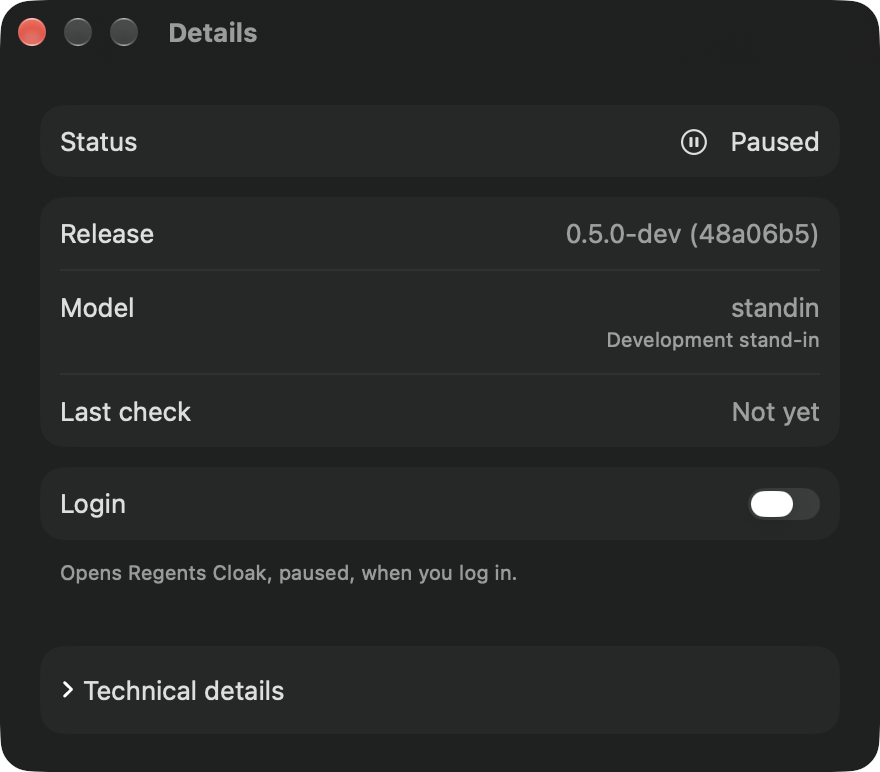
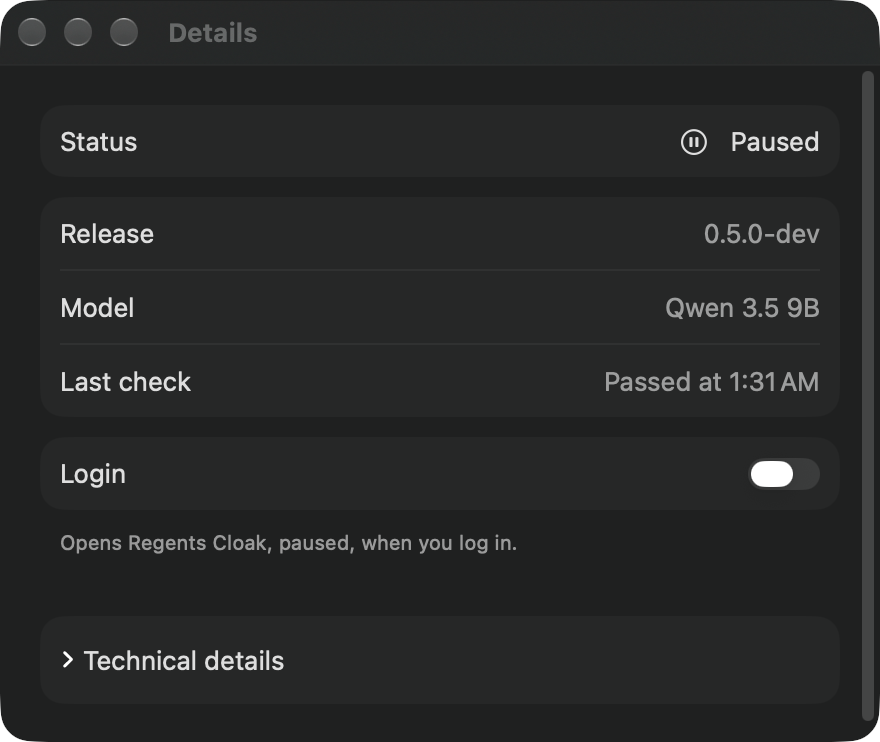
Stage 5: live run with the small lead; Details shots refreshed
From Paused, Start reached Running in 8.5 s and 8.3 s (10.1 s opening
the app); three cloak verify runs passed, each one real rewrite; whole
product peak 6.72 GiB while starting, 5.58 GiB while Running. An extra
file in the model folder gave model_changed; Quit from Running stopped
the app, tor and the worker within 4 s. The Details window in each state,
light and dark, captured by window id through accessibility actions and
the cloak command only. The plan's Stage 2 bullet now counts the llama.cpp
worker's 35 checks.

diff --git a/docs/plan.md b/docs/plan.md
@@ -47,18 +47,22 @@ worker uses `macos-patterns`, `macos-build` and `write-swift`; stage 5 adds
 
 ## Stage 2 so far
 
-- The native worker (`worker/`) loads a model only when every file matches
-  the pins built into it, rewrites one request at a time, stops on a cancel
-  (also while it reads a long prompt), and stops on any protocol fault. When
-  the host shuts down mid-rewrite, the worker stops that rewrite, which
-  fails, and exits cleanly; a protocol fault mid-rewrite stops the rewrite
-  the same way before the worker exits. It runs in Apple's App Sandbox with no
-  network entitlement and reads files only in
-  `~/Library/Application Support/Regents Cloak/models/`. 28 checks in
-  `tests/test_worker.py` pass, including: a program signed with the worker's
-  entitlements is refused a connection the same program makes unsandboxed,
-  the installed worker carries exactly those entitlements, and the worker
-  cannot read a folder outside the models folder.
+- The native worker (`llama-worker/`, on llama.cpp, decision 8; the first
+  worker, on MLX, was deleted on 14 November) loads a model only when every
+  file matches the pins built into it, rewrites one request at a time under
+  the reply grammar, stops on a cancel (also while it reads a long prompt),
+  and stops on any protocol fault. When the host shuts down mid-rewrite, the
+  worker stops that rewrite, which fails, and exits cleanly; a protocol
+  fault mid-rewrite stops the rewrite the same way before the worker exits.
+  It runs in Apple's App Sandbox with no network entitlement and reads files
+  only in
+  `~/Library/Application Support/Regents Cloak/models/`. 35 checks in
+  `tests/test_llama_worker.py` pass on the stand-in (14 November),
+  including: a program signed with the worker's entitlements is refused a
+  connection the same program makes unsandboxed, the installed worker
+  carries exactly those entitlements, the worker cannot read a folder
+  outside the models folder, and the daemon accepts every reply the model
+  ended.
 - The guest (`guest/`) is a Debian trixie kernel and a small initramfs from a
   pinned snapshot, with no network device. Inside it, the daemon's own
   rewrite code (`internal/rewriter`, built from the pinned module, with
@@ -95,9 +99,7 @@ worker uses `macos-patterns`, `macos-build` and `write-swift`; stage 5 adds
   code directly, as its client does before target inference (A11 stays open).
   The sandbox confines reads within the person's home folder; system-wide
   readable places such as `/private/tmp` stay readable, as App Sandbox allows.
-  The stand-in model is never evaluated: it sometimes fences
-  its reply, which the daemon refuses, and sometimes answers instead of
-  rewriting.
+  The stand-in model is never evaluated; it is there to drive the path.
 
 ### Pi in the guest (12 November 2026)
 
@@ -1285,6 +1287,27 @@ candidates, so the split has to be re-declared before any holdout opens.
   where Technical details cannot take the keyboard focus though the Login
   switch can, so Tab would likely pass it; a spoken VoiceOver run; and a
   live sleep and wake.
+- Live run with the small lead on the development Mac, 14 November (load
+  averages of 34 to 44 from other apps, on mains power): with the app
+  closed, `cloak start` opened it and reached Running in 10.1 s; from
+  Paused, Start reached Running in 8.5 s and 8.3 s, and from Needs
+  attention in 7.9 s. Each startup check's rewrite took 0.67 to 0.92 s
+  through the guest, the daemon and the worker. Three `cloak verify` runs
+  passed, each one real rewrite (0.70 to 0.74 s), in 7.6 to 8.0 s each.
+  The whole product peaked at 6.72 GiB (7,211,720,312 bytes: the worker
+  6.12 GiB, the check guest's virtual machine 0.56 GiB, the app 0.03 GiB,
+  tor 0.01 GiB) while starting, and held up to 5.58 GiB while Running once
+  the check guest had powered off. With one extra file in the model's
+  folder, Start ended in Needs attention in 2.3 to 2.7 s, "The model has
+  changed. Reinstall the model, then start again." (`model_changed`), with
+  tor stopped; with the file removed, Start reached Running. Quit from
+  Running, chosen in the menu through accessibility, ended the app, tor
+  and the worker within 4 s. The Details window in each state, light and
+  dark, is in [shots/](shots/) again, now with the small lead, taken
+  through accessibility actions on the app's own elements and the `cloak`
+  command only. Not shown here: a file changed in place at its pinned size
+  (the worker's checks show it, `tests/test_llama_worker.py`), and a 16 GB
+  Mac.
 
 ## Decisions
 

diff --git a/CHANGELOG.md b/CHANGELOG.md
@@ -2,6 +2,14 @@
 
 ## Unreleased
 
+- Stage 5: a live run of the app with the small lead (14 November),
+  written up in docs/plan.md: Start reached Running in about 8 s from Paused
+  (10 s with the app closed), three `cloak verify` runs each sent a real
+  rewrite through the guest, the daemon and the worker, and the whole
+  product peaked at 6.72 GiB. An extra file in the model's folder gave "The
+  model has changed"; Quit from Running stopped everything within 4 s. The
+  Details window shots in `docs/shots/` show the small lead, light and dark.
+
 - Stage 3: the EVAL01 development screen on the small lead again, on the
   one-engine tree (14 November), recorded in
   evidence/stage3/small-lead-gguf-grammar/ and written up in docs/plan.md:
